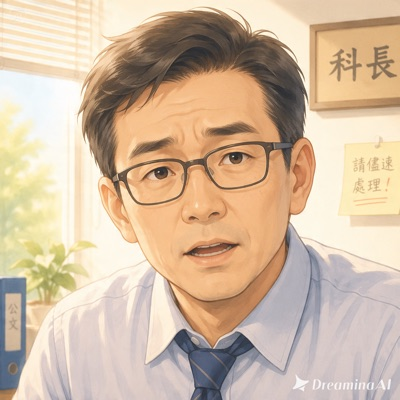
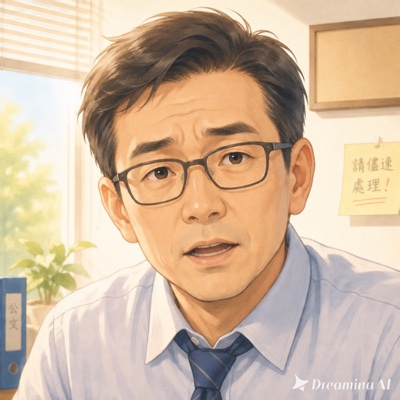
換掉祥哥頭像：原圖背景牌子上寫著「科長」，跟角色重新命名後的設定對不上

diff --git a/index.html b/index.html
@@ -4,7 +4,7 @@
 <meta charset="UTF-8">
 <meta name="viewport" content="width=device-width, initial-scale=1.0, maximum-scale=1.0, user-scalable=no">
 <title>誠信抉擇：機關工程倫理文字劇情</title>
-<link rel="stylesheet" href="style.css?v=22">
+<link rel="stylesheet" href="style.css?v=23">
 </head>
 <body>
 <div id="app">
@@ -119,7 +119,7 @@
 
 </div>
 
-<script src="js/data.js?v=22"></script>
-<script src="js/game.js?v=22"></script>
+<script src="js/data.js?v=23"></script>
+<script src="js/game.js?v=23"></script>
 </body>
 </html>

diff --git a/js/data.js b/js/data.js
@@ -7,7 +7,7 @@
 const PORTRAITS = {
   player: "assets/characters/player.jpg",
   xiaofeng: "assets/characters/xiaofeng.jpg",
-  chief: "assets/characters/chief.jpg",
+  chief: "assets/characters/chief.jpg?v=2",
   colleague: "assets/characters/colleague.jpg",
   supervisor: "assets/characters/supervisor.jpg",
   contractor: "assets/characters/contractor.jpg",
